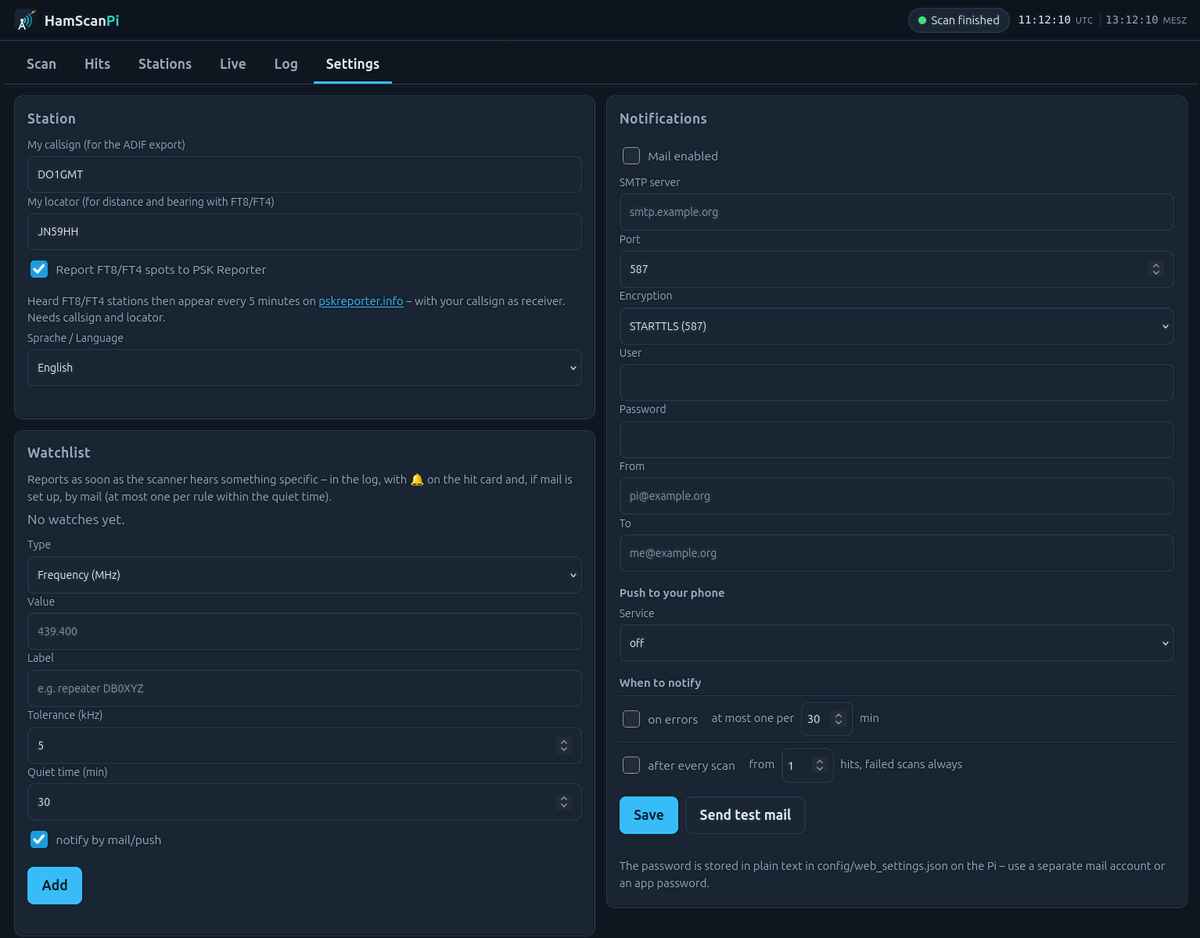
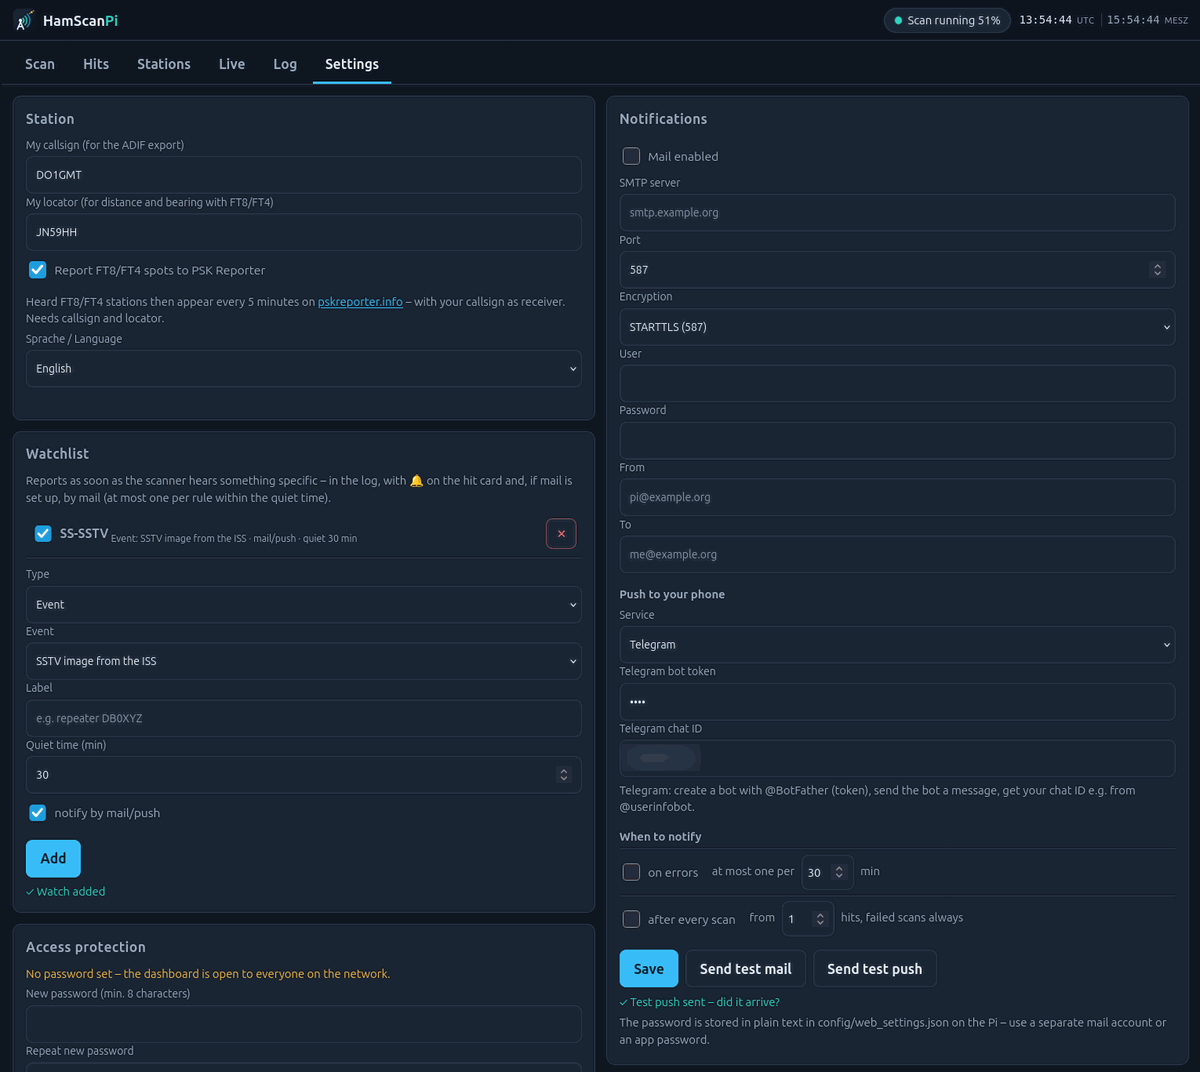
HamScanPi 1.4.6: Überflüge gehen nicht mehr still verloren (Sperre abwarten, Fehlstart wiederholen, Grund bei übersprungen), neue Einstellungsbilder, Hinweistexte

diff --git a/web/i18n.js b/web/i18n.js
@@ -200,8 +200,8 @@
     'per Mail/Push melden': 'notify by mail/push', '✓ Test-Push verschickt – kommt er an?': '✓ Test push sent – did it arrive?',
     'ntfy: App „ntfy“ aufs Handy, dort ein Thema abonnieren (am besten ein langer, zufälliger Name – wer ihn kennt, liest mit) und dieselbe Adresse hier eintragen.':
       'ntfy: install the ntfy app, subscribe to a topic (best a long random name – anyone who knows it can read along) and enter the same address here.',
-    'Telegram: bei @BotFather einen Bot anlegen (Token), dem Bot eine Nachricht schreiben, die Chat-ID z. B. über @userinfobot erfahren.':
-      'Telegram: create a bot with @BotFather (token), send the bot a message, get your chat ID e.g. from @userinfobot.',
+    'Telegram: bei @BotFather einen Bot anlegen (Token), dem eigenen Bot eine Nachricht schreiben (er antwortet nicht – das ist richtig), dann „Chat-ID ermitteln“.':
+      'Telegram: create a bot with @BotFather (token), send your own bot a message (it does not answer – that is fine), then "Find chat ID".',
     'Push ist nicht eingerichtet': 'Push is not set up',
     // Stationen, Beobachtungsliste
     'Stationen': 'Stations', 'Gehörte Stationen': 'Heard stations', 'Rufzeichen': 'Callsign', 'Zeitraum': 'Period', '1 Jahr': '1 year', 'alles': 'all',
@@ -217,11 +217,13 @@
     'Wert': 'Value', 'Bezeichnung': 'Label', 'z. B. Relais DB0XYZ': 'e.g. repeater DB0XYZ', 'Toleranz (kHz)': 'Tolerance (kHz)', 'Ruhezeit (min)': 'Quiet time (min)',
     'per Mail melden': 'notify by mail', 'Hinzufügen': 'Add', 'Noch keine Beobachtungen.': 'No watches yet.', '✓ Beobachtung hinzugefügt': '✓ Watch added',
     'Beobachtungsliste': 'Watchlist', 'Entfernung ab': 'Distance from',
-    'Meldet sich, sobald der Scanner etwas Bestimmtes hört – im Protokoll, mit 🔔 auf der Trefferkarte und, wenn Mail eingerichtet ist, per Mail (höchstens eine je Regel in der Ruhezeit).':
-      'Reports as soon as the scanner hears something specific – in the log, with 🔔 on the hit card and, if mail is set up, by mail (at most one per rule within the quiet time).',
+    'Meldet sich, sobald der Scanner etwas Bestimmtes hört – im Protokoll, mit 🔔 auf der Trefferkarte und, wenn eingerichtet, per Mail oder Push aufs Handy (höchstens eine je Regel in der Ruhezeit).':
+      'Reports as soon as the scanner hears something specific – in the log, with 🔔 on the hit card and, if set up, by mail or push to your phone (at most one per rule within the quiet time).',
     'SSTV-Bild von der ISS': 'SSTV image from the ISS', 'SSTV-Bild (alle)': 'SSTV image (any)', 'APRS über die ISS': 'APRS via the ISS',
     'Satellit gehört (alle Treffer im Band Satelliten)': 'Satellite heard (any hit in the band Satellites)',
-    'Beobachtet': 'Watched', 'Auswertung nicht beendet (Prozess abgebrochen, evtl. Speicher)': 'analysis did not finish (process stopped, possibly memory)',
+    'Beobachtet': 'Watched', 'Überflug: Start wiederholt': 'Pass: start retried', 'Stick war belegt – Aufnahme konnte nicht starten': 'stick was busy – recording could not start',
+    'vorheriger Überflug nahm noch auf': 'previous pass was still recording', 'Scan lief (Bildsatelliten nur bei freiem Stick)': 'a scan was running (image satellites only when the stick is free)',
+    'Stick belegt': 'stick busy', 'Live-Empfang lief': 'live reception was running', 'Auswertung nicht beendet (Prozess abgebrochen, evtl. Speicher)': 'analysis did not finish (process stopped, possibly memory)',
     'Aufnahme nicht beendet (Prozess abgebrochen, evtl. Speicher)': 'recording did not finish (process stopped, possibly memory)', 'Speicherkarte fast voll': 'SD card almost full', 'Prozess ohne Abschluss verschwunden (Neustart, Dienst gestoppt, Speicher voll?)': 'process vanished without finishing (restart, service stopped, out of memory?)', 'unterbrochen': 'interrupted', 'Abstimmung:': 'Tuning:', '↓ I/Q-Rohdaten (für SDR-Software)': '↓ I/Q raw data (for SDR software)', 'Beobachtung ausgelöst': 'Watch triggered', 'QSO verfolgt': 'QSO followed',
     // System, Aufräumen, Download
     'System': 'System', 'Automatisch löschen (ungeschützte Treffer)': 'Delete automatically (unprotected hits)',

diff --git a/web/app.js b/web/app.js
@@ -788,7 +788,7 @@
     trigger_ignored: 'Scan-Anforderung ignoriert', band_start: 'Band wird abgesucht', band_skipped: 'Band übersprungen',
     device_opened: 'Empfänger geöffnet', device_open_failed: 'Empfänger lässt sich nicht öffnen', hit: 'Treffer',
     rtl_no_data: 'RTL-SDR liefert keine Daten', rtl_recovered: 'RTL-SDR läuft wieder',
-    satellite_start: 'Überflug: Aufnahme startet', satellite_skipped: 'Überflug übersprungen', satellite_problem: 'Satelliten: Problem', satellite_paused: 'Satelliten pausiert (PMSDR gewählt)', band_scanned: 'Band abgehört', 'live.start': 'Live-Empfang gestartet', 'live.stop': 'Live-Empfang beendet', 'live.tune': 'Live-Empfang abgestimmt', api_error: 'Fehler bei einer Anfrage', stopped_for_live: 'Für Live-Empfang abgebrochen', pass_cancelled: 'Überflug abgebrochen (Benutzer)', satellite_stop_requested: 'Abbruch der Satellitenaufnahme angefordert', pskreporter_sent: 'An PSK Reporter gemeldet', pskreporter_failed: 'PSK Reporter: Fehler', watch_hit: 'Beobachtung ausgelöst', watch_failed: 'Beobachtungsliste: Fehler', auto_cleanup: 'Automatisch aufgeräumt', sat_raw_deleted: 'Rohdaten eines Überflugs gelöscht', disk_full: 'Speicherkarte fast voll', disk_low: 'Speicherkarte wird voll', disk_ok: 'Speicherplatz wieder ok', pass_aborted: 'Überflug abgebrochen', scan_skipped_disk_full: 'Scan ausgelassen (Speicher voll)', housekeeping_failed: 'Haushalt fehlgeschlagen',
+    satellite_start: 'Überflug: Aufnahme startet', satellite_skipped: 'Überflug übersprungen', satellite_retry: 'Überflug: Start wiederholt', satellite_problem: 'Satelliten: Problem', satellite_paused: 'Satelliten pausiert (PMSDR gewählt)', band_scanned: 'Band abgehört', 'live.start': 'Live-Empfang gestartet', 'live.stop': 'Live-Empfang beendet', 'live.tune': 'Live-Empfang abgestimmt', api_error: 'Fehler bei einer Anfrage', stopped_for_live: 'Für Live-Empfang abgebrochen', pass_cancelled: 'Überflug abgebrochen (Benutzer)', satellite_stop_requested: 'Abbruch der Satellitenaufnahme angefordert', pskreporter_sent: 'An PSK Reporter gemeldet', pskreporter_failed: 'PSK Reporter: Fehler', watch_hit: 'Beobachtung ausgelöst', watch_failed: 'Beobachtungsliste: Fehler', auto_cleanup: 'Automatisch aufgeräumt', sat_raw_deleted: 'Rohdaten eines Überflugs gelöscht', disk_full: 'Speicherkarte fast voll', disk_low: 'Speicherkarte wird voll', disk_ok: 'Speicherplatz wieder ok', pass_aborted: 'Überflug abgebrochen', scan_skipped_disk_full: 'Scan ausgelassen (Speicher voll)', housekeeping_failed: 'Haushalt fehlgeschlagen',
     satellite_failed: 'Satelliten: Fehler', satellite_warning: 'Satelliten: Hinweis', pass_start: 'Überflug: Aufnahme läuft',
     pass_done: 'Überflug fertig', pass_failed: 'Überflug fehlgeschlagen', pass_eval_failed: 'Überflug: Auswertung fehlgeschlagen',
     pass_recording_problem: 'Überflug: Aufnahme gestört', loop_exception: 'Scheduler: Fehler in der Schleife',

diff --git a/web/index.html b/web/index.html
@@ -291,7 +291,7 @@
       </section>
       <section class="panel" id="panel-watch">
         <h2>Beobachtungsliste</h2>
-        <p class="hint">Meldet sich, sobald der Scanner etwas Bestimmtes hört – im Protokoll, mit 🔔 auf der Trefferkarte und, wenn Mail eingerichtet ist, per Mail (höchstens eine je Regel in der Ruhezeit).</p>
+        <p class="hint">Meldet sich, sobald der Scanner etwas Bestimmtes hört – im Protokoll, mit 🔔 auf der Trefferkarte und, wenn eingerichtet, per Mail oder Push aufs Handy (höchstens eine je Regel in der Ruhezeit).</p>
         <div id="watchList"></div>
         <div class="filter-grid watch-add">
           <label class="field"><span>Art</span><select id="wType">
@@ -394,7 +394,7 @@
             <label class="field push-tg"><span>Telegram-Chat-ID</span><span class="row-inline"><input name="tg_chat" id="tgChat" type="text" autocomplete="off"><button type="button" class="btn" id="tgFind">Chat-ID ermitteln</button></span></label>
           </div>
           <p class="hint push-ntfy">ntfy: App „ntfy“ aufs Handy, dort ein Thema abonnieren (am besten ein langer, zufälliger Name – wer ihn kennt, liest mit) und dieselbe Adresse hier eintragen.</p>
-          <p class="hint push-tg">Telegram: bei @BotFather einen Bot anlegen (Token), dem Bot eine Nachricht schreiben, die Chat-ID z. B. über @userinfobot erfahren.</p>
+          <p class="hint push-tg">Telegram: bei @BotFather einen Bot anlegen (Token), dem eigenen Bot eine Nachricht schreiben (er antwortet nicht – das ist richtig), dann „Chat-ID ermitteln“.</p>
           <h3 class="sub">Wann melden</h3>
           <div class="notify-rule">
           <label class="check"><input type="checkbox" name="on_error"> bei Fehlern</label>

diff --git a/bin/scheduler.py b/bin/scheduler.py
@@ -107,7 +107,8 @@ def run_scan():
 
 # ---------------------------------------------------------------- Satelliten
 SAT_PID = BASE / "data" / "sat_pass.pid"
-_sat = {"checked": 0.0, "key": None, "passes": [], "started": set(), "postponed": None, "problem": None, "procs": []}
+_sat = {"checked": 0.0, "key": None, "passes": [], "started": set(), "postponed": None, "problem": None, "procs": [],
+        "pending": {}, "blocked": {}}
 
 
 def selected_satellites():
@@ -265,13 +266,37 @@ def start_sat_pass(p):
     _sat["started"].add(p["key"])
     applog("INFO", "scheduler", "satellite_start", sat=p["name"], channels=p["channels"], max_el=p["max_el"],
            plan=p["status"])
-    cmd = ["/usr/bin/flock", "-n", str(LOCK), "python3", str(BASE / "bin" / "sat_pass.py"),
+    # -w statt -n: die Sperre ist manchmal nur einen Augenblick belegt (Statusabfrage des Dashboards,
+    # vorheriger Überflug gibt den Stick gerade frei) – dann warten statt den Überflug still zu verlieren
+    cmd = ["/usr/bin/flock", "-w", "30", str(LOCK), "python3", str(BASE / "bin" / "sat_pass.py"),
            "--sats", ",".join(p["channels"]), "--until", str(p["rec_end"]), "--keys", ",".join(p.get("keys", [p["key"]]))]
     with open(BASE / "log" / "satellite.log", "a", encoding="utf-8") as out:
         pr = subprocess.Popen(cmd, stdout=out, stderr=subprocess.STDOUT, start_new_session=True)
     SAT_PID.write_text(str(pr.pid))
     _sat["procs"] = [x for x in _sat["procs"] if x.poll() is None] + [pr]   # beendete abholen
+    _sat["pending"][p["key"]] = (pr, time.time(), p)
     return True
+
+
+def check_started_passes():
+    """Ist ein gestarteter Überflug gleich wieder beendet, ohne aufzunehmen (Sperre nicht bekommen,
+    Stick belegt)? Dann erneut versuchen, solange das Fenster offen ist – sonst mit Grund vermerken."""
+    import satellites as SAT
+    for key, (pr, t, p) in list(_sat["pending"].items()):
+        rc = pr.poll()
+        res = (SAT.read_results() or {}).get(key) or {}
+        if res.get("state") in ("running", "evaluating", "done", "error", "cancelled"):
+            del _sat["pending"][key]                    # läuft bzw. lief – in Ordnung
+            continue
+        if rc is None:
+            continue
+        del _sat["pending"][key]
+        if time.time() < p["rec_end"] - 60:
+            _sat["started"].discard(key)                # noch Zeit: im nächsten Durchlauf neu starten
+            applog("WARN", "scheduler", "satellite_retry", sat=p["name"], rc=rc)
+        else:
+            for k in p.get("keys", [key]):
+                SAT.write_result(k, state="skipped", error="Stick war belegt – Aufnahme konnte nicht starten")
 
 
 for _d in ("data", "log", "recordings", "reports"):              # frische Installation
@@ -316,6 +341,17 @@ while True:
 
         # Satellitenüberflug (Vorrang vor dem Scan). Wer bei Überschneidungen wann aufnimmt,
         # steht schon im Plan (satellites.make_plan).
+        check_started_passes()
+        for key, (bp, why) in list(_sat["blocked"].items()):       # Fenster vorbei, nie gestartet
+            if key in _sat["started"]:
+                del _sat["blocked"][key]
+            elif time.time() >= bp["rec_end"] - 60:
+                del _sat["blocked"][key]
+                _sat["started"].add(key)
+                import satellites as SAT
+                applog("WARN", "scheduler", "satellite_skipped", sat=bp["name"], reason=why)
+                for k in bp.get("keys", [key]):
+                    SAT.write_result(k, state="skipped", error=why)
         now_t = time.time()
         soon = None
         import satellites as SAT
@@ -325,7 +361,12 @@ while True:
             if p["key"] in _sat["started"]:
                 continue
             if p["rec_start"] <= now_t < p["rec_end"] - 60:
-                start_sat_pass(p)
+                if not start_sat_pass(p):
+                    # Stick noch belegt: Grund merken, damit „nicht aufgenommen“ nicht unerklärt bleibt
+                    why = ("vorheriger Überflug nahm noch auf" if sat_pass_active()
+                           else "Scan lief (Bildsatelliten nur bei freiem Stick)" if p["prio"] <= SAT.OPPORTUNISTIC_PRIO
+                           else "Stick belegt")
+                    _sat["blocked"][p["key"]] = (p, why)
                 break
             if now_t < p["rec_start"]:
                 wait = p["rec_start"] - now_t

diff --git a/CHANGELOG.md b/CHANGELOG.md
@@ -1,5 +1,17 @@
 # Changelog
 
+## 1.4.6 – 2026-10-24
+
+- Fix: a satellite pass could be lost without a trace ("not recorded"): the recording was started
+  with `flock -n`, which fails if the lock is held for a moment (status check of the dashboard,
+  previous pass just releasing the stick). Now it waits up to 30 s, a start that ends at once is
+  retried while the pass window is open, and a pass that never got the stick is marked "skipped"
+  with the reason (previous pass still recording, scan running, stick busy).
+- README: new screenshots of the settings page (Telegram push, watchlist) and of satellite
+  priorities with the system status.
+- Hints: watchlist mentions push as well as mail; Telegram hint explains that the own bot does not
+  answer and points to "Find chat ID".
+
 ## 1.4.5 – 2026-10-24
 
 - No scan is started any more that would still be running when a satellite pass begins – now also
